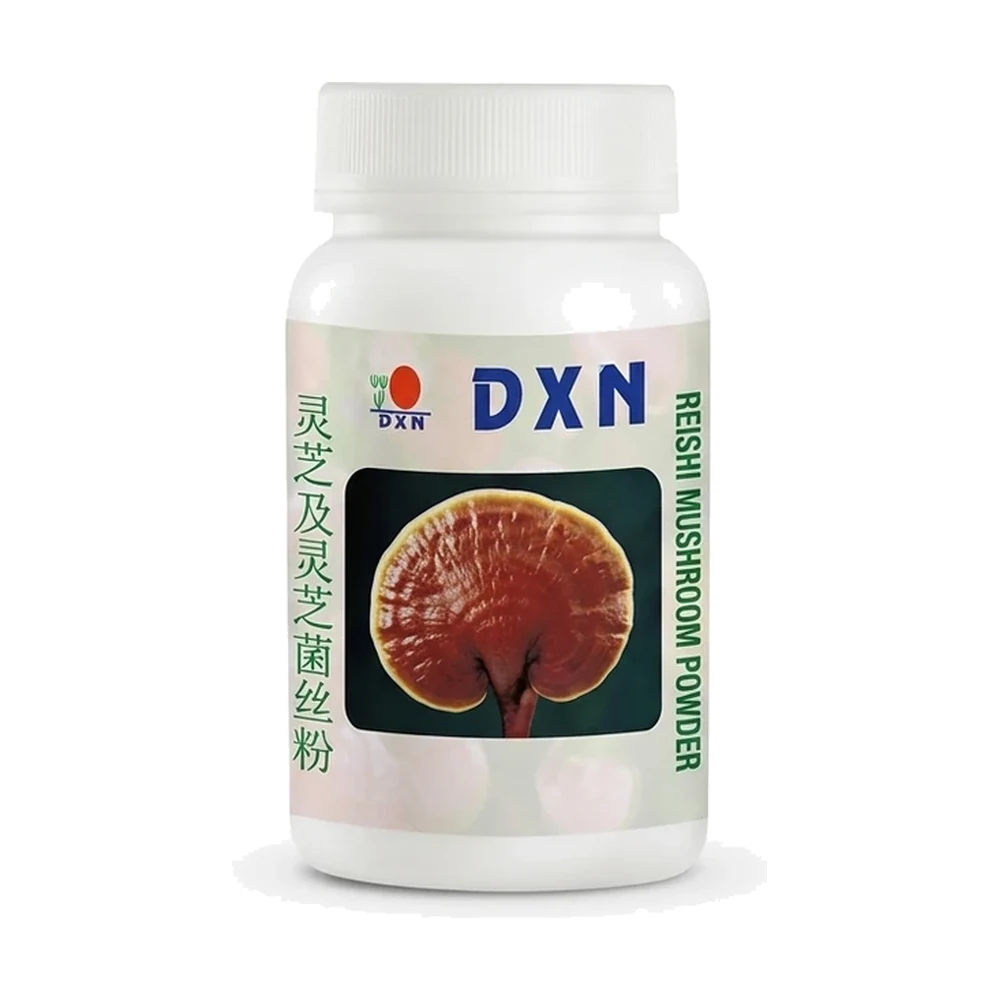
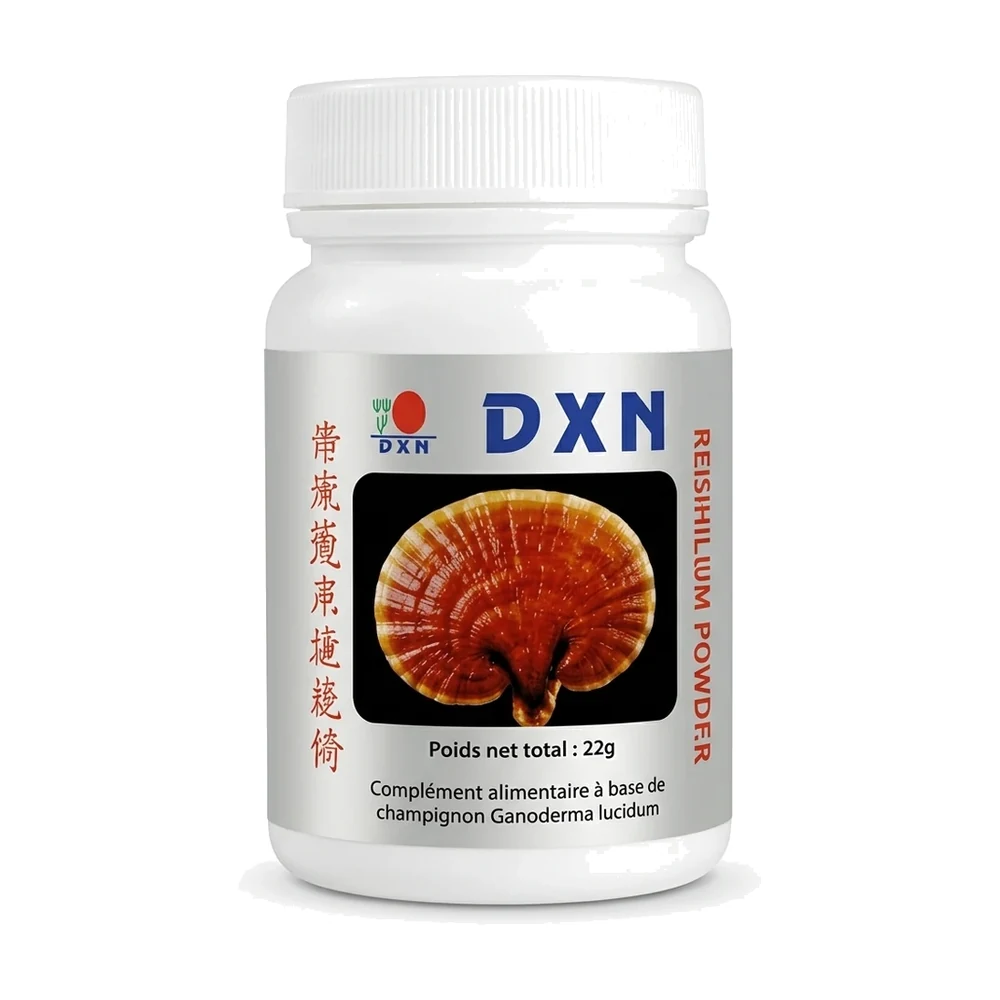
Catalogue : prix, points clés, Spirulina en deux formats, Reishilium
- prix reçus du gérant : Omega 3 39,90 €, Reishilium Powder 87,50 €,
  Lion's Mane Premix Coffee 29,20 €, Cordyceps Coffee 35,40 €, Lingzhi
  Coffee 3 in 1 32,90 €
- Spirulina : deux fiches, 120 comprimés à 28,70 € et 500 à 91,90 €
- « Reishi Mushroom Powder » devient « Reishilium Powder », le nom porté par
  le pot vendu ; contenance laissée vide en attendant confirmation
- Cordyceps Coffee : la version vendue est la « 1 in 1 »
- méta _fati_points et colonne « points » : trois faits par produit sur les
  28 fiches, soumis au même garde-fou que les autres textes
- MycoVeggie : sept champignons, pas « une dizaine »
- packshots du Reishilium et de la Spirulina 120

Les bénéfices santé des affiches ne sont pas repris : interdits pour une
boutique dans l'UE, et contraires à l'engagement affiché sur l'accueil.

diff --git a/tools/rediger-catalogue.py b/tools/rediger-catalogue.py
@@ -14,20 +14,20 @@ dict(slug="lingzhi-coffee", nom="DXN Lingzhi Black Coffee", categorie=AB, prix="
  description="Le Lingzhi Black Coffee est un café soluble d'arabica brésilien auquel DXN ajoute un extrait de Ganoderma lucidum, le champignon reishi. Il se boit noir : aucun sucre ni crémier dans le sachet, un goût de café franc.\n\nC'est la référence la plus simple de la gamme café pour qui veut garder son geste du matin sans rien changer : un sachet, de l'eau chaude, c'est prêt. Il se conserve à température ambiante, à l'abri de l'humidité.",
  composition="Café instantané (arabica du Brésil), extrait de Ganoderma lucidum.",
  usage="Verser le contenu d'un sachet dans une tasse.\nAjouter 150 à 180 ml d'eau chaude et remuer."),
-dict(slug="lingzhi-coffee-3-en-1", nom="DXN Lingzhi Coffee 3 in 1", categorie=AB, prix="", image="lingzhi-coffee-3-en-1.webp", format="20 sachets × 21 g",
+dict(slug="lingzhi-coffee-3-en-1", nom="DXN Lingzhi Coffee 3 in 1", categorie=AB, prix="32.90",image="lingzhi-coffee-3-en-1.webp", format="20 sachets × 21 g",
  accroche="Café, crémier et sucre réunis dans un sachet, avec l'extrait de Ganoderma de la gamme Lingzhi.",
  description="Version douce du café Lingzhi : le sachet contient déjà le crémier et le sucre, pour un café au lait prêt en trente secondes. L'extrait de Ganoderma lucidum est le même que dans le Black Coffee ; seule la rondeur change.\n\nSans colorant, arôme ni conservateur artificiel selon la fiche DXN. Le crémier peut contenir un dérivé du lait : vérifiez la liste d'ingrédients de l'emballage si vous y êtes sensible.",
  composition="Café soluble, crémier, sucre, extrait de Ganoderma lucidum. Détail complet sur l'emballage.",
  usage="Vider un sachet dans une tasse.\nAjouter de l'eau chaude et remuer."),
-dict(slug="lions-mane-coffee", nom="DXN Lion's Mane Coffee", categorie=AB, prix="", image="lions-mane-coffee.webp", format="20 sachets × 21 g",
+dict(slug="lions-mane-coffee", nom="DXN Lion's Mane Premix Coffee", categorie=AB, prix="29.20",image="lions-mane-coffee.webp", format="20 sachets × 21 g",
  accroche="Un café instantané au lait, préparé avec de la poudre de champignon Hericium erinaceus, la crinière de lion.",
- description="Le Lion's Mane Coffee associe café instantané, crémier et sucre à de la poudre de champignon Hericium erinaceus, plus connu sous le nom de crinière de lion. Le résultat est un café doux et rond, qui se prépare chaud ou froid.\n\nIl contient du lait (caséinate de sodium dans le crémier) : il ne convient pas aux personnes allergiques aux protéines de lait.",
+ description="Le Lion's Mane Coffee — « Premix Coffee with Lion's Mane Mushroom » sur sa boîte — associe café instantané, crémier et sucre à de la poudre de champignon Hericium erinaceus, plus connu sous le nom de crinière de lion. Le résultat est un café doux et rond, qui se prépare chaud ou froid.\n\nIl contient du lait (caséinate de sodium dans le crémier) : il ne convient pas aux personnes allergiques aux protéines de lait.",
  composition="Crémier (sirop de glucose, huile de palme, caséinate de sodium — lait, stabilisants, émulsifiants, sel), sucre, café instantané, poudre de champignon Lion's Mane (Hericium erinaceus).\nAllergène : lait.",
  usage="Verser un sachet (21 g) dans une tasse.\nAjouter 150 à 180 ml d'eau chaude, ou d'eau froide pour une version glacée. Remuer."),
-dict(slug="cordyceps-coffee", nom="DXN Cordyceps Coffee", categorie=AB, prix="", image="cordyceps-coffee.webp", format="",
+dict(slug="cordyceps-coffee", nom="DXN Cordyceps Coffee", categorie=AB, prix="35.40",image="cordyceps-coffee.webp", format="",
  accroche="Un café premium instantané associé à l'extrait de Cordyceps sinensis.",
- description="Le Cordyceps Coffee est un café soluble auquel DXN ajoute un extrait de Cordyceps sinensis, un champignon utilisé de longue date en Asie. Il se prépare en quelques secondes, chaud ou froid.\n\nIl existe en version noire (« 1 in 1 ») et en version avec crémier et sucre de canne (« 3 in 1 ») : la version expédiée est confirmée avec Fati avant la commande.",
- composition="Café instantané, extrait de Cordyceps sinensis. Selon la version : crémier et sucre de canne.",
+ description="Le Cordyceps Coffee est un café soluble auquel DXN ajoute un extrait de Cordyceps sinensis, un champignon utilisé de longue date en Asie. Il se prépare en quelques secondes, chaud ou froid.\n\nC'est la version « 1 in 1 » : de la poudre de café instantané de qualité et l'extrait de champignon, sans crémier dans le sachet. À chacun d'ajouter, ou non, son lait et son sucre.",
+ composition="Café instantané, extrait de Cordyceps sinensis. Liste complète sur l'emballage.",
  usage="Vider un sachet dans une tasse.\nAjouter de l'eau chaude ou froide, bien remuer."),
 dict(slug="morinzhi", nom="DXN Morinzhi", categorie=AB, prix="30", image="morinzhi.webp", format="285 ml",
  accroche="Un jus de noni (Morinda citrifolia) adouci à la roselle, à diluer dans un verre d'eau.",
@@ -50,9 +50,9 @@ dict(slug="rg-90", nom="DXN Reishi Gano (RG) 90", categorie=CO, prix="61", image
  description="Le Reishi Gano, ou RG, contient uniquement le corps fructifère du Ganoderma lucidum — le champignon reishi — récolté à maturité, après 90 jours de culture en ferme certifiée biologique selon DXN. Rien d'autre dans la gélule.\n\nLe flacon de 90 gélules est le format intermédiaire de la gamme, qui existe aussi en 30 et en 360. Les conseils d'utilisation figurent sur l'emballage ; en cas de traitement médical ou de grossesse, demandez l'avis d'un professionnel de santé avant d'en prendre.",
  composition="100 % Ganoderma lucidum (corps fructifère), 270 mg par gélule.",
  usage=FLACON),
-dict(slug="reishi-powder", nom="DXN Reishi Mushroom Powder", categorie=CO, prix="40.50", image="reishi-powder.webp", format="",
+dict(slug="reishi-powder", nom="DXN Reishilium Powder", categorie=CO, prix="87.50",image="reishi-powder.webp", format="",
  accroche="Corps fructifère et mycélium de Ganoderma lucidum réduits en poudre, à diluer.",
- description="Cette poudre réunit les deux parties du reishi que DXN propose séparément en gélules : le corps fructifère (RG) et le mycélium (GL). Elle se mélange dans de l'eau, une boisson ou une préparation.\n\nLe goût est légèrement amer, caractéristique du champignon. La dose se mesure à la cuillère fournie ; le détail figure sur l'emballage.",
+ description="Le Reishilium Powder — vendu en Europe sous le nom de Reishi Mushroom Powder — réunit les deux parties du reishi que DXN propose séparément en gélules : le corps fructifère (RG) et le mycélium (GL). Elle se mélange dans de l'eau, une boisson ou une préparation.\n\nLe goût est légèrement amer, caractéristique du champignon. La dose se mesure à la cuillère fournie ; le détail figure sur l'emballage.",
  composition="Corps fructifère et mycélium de Ganoderma lucidum, 100 %.",
  usage="Mélanger une cuillère-mesure rase dans un verre d'eau ou une boisson.\nPeut aussi s'incorporer à une préparation."),
 dict(slug="cordyceps", nom="DXN Cordyceps", categorie=CO, prix="75", image="cordyceps.webp", format="60 gélules × 450 mg",
@@ -72,15 +72,20 @@ dict(slug="lions-mane", nom="DXN Lion's Mane", categorie=CO, prix="48", image="l
  usage=FLACON),
 dict(slug="mycoveggie", nom="DXN MycoVeggie", categorie=CO, prix="118", image="mycoveggie.webp", format="400 g",
  accroche="Un mélange de psyllium, légumes, plantes, épices et champignons en poudre.",
- description="Le MycoVeggie est une poudre composée de téguments de psyllium, de légumes, de feuilles et d'épices, et d'une dizaine de champignons dont le shiitake, le pleurote et la crinière de lion. Le psyllium en est le premier ingrédient.\n\nLe pot de 400 g se dose à la cuillère-mesure dans un verre d'eau tiède ou froide, de préférence au shaker : la poudre épaissit vite, mieux vaut boire aussitôt.",
+ description="Le MycoVeggie est une poudre composée de téguments de psyllium, de légumes, de feuilles et d'épices, et de sept champignons dont le shiitake, le pleurote et la crinière de lion. Le psyllium en est le premier ingrédient.\n\nLe pot de 400 g se dose à la cuillère-mesure dans un verre d'eau tiède ou froide, de préférence au shaker : la poudre épaissit vite, mieux vaut boire aussitôt.",
  composition="Téguments de psyllium, céleri, feuille de mûrier, feuille de noni, feuille de ginkgo, gingembre, citronnelle, shiitake, Lyophyllum, tricholome de la Saint-Georges, crinière de lion, pleurote de l'orme, pleurote gris, Schizophyllum commune, maïs doux, citron vert, orange, spiruline, thé vert, écorce de mandarine, cannelle, anis étoilé, clou de girofle.",
  usage="Mélanger une cuillère-mesure (5 g) dans un verre d'eau tiède ou froide, au shaker de préférence.\nBoire aussitôt."),
-dict(slug="spirulina", nom="DXN Spirulina", categorie=CO, prix="95", image="spirulina.webp", format="500 comprimés × 250 mg",
- accroche="De la spiruline (Spirulina platensis) cultivée en bassin, en comprimés de 250 mg.",
- description="La spiruline DXN est une micro-algue, Spirulina platensis, cultivée en bassin sans pesticide ni herbicide selon DXN, puis séchée et compressée. Chaque comprimé en contient 250 mg, avec un minimum d'excipients.\n\nLe flacon de 500 comprimés est le grand format ; il existe aussi en 120 comprimés et en poudre. Les comprimés s'avalent avec de l'eau ou se croquent.",
+dict(slug="spirulina-120", nom="DXN Spirulina — 120 comprimés", categorie=CO, prix="28.70", image="spirulina-120.webp", format="120 comprimés × 250 mg",
+ accroche="De la spiruline (Spirulina platensis) cultivée en bassin, en comprimés de 250 mg — le petit flacon.",
+ description="La spiruline DXN est une micro-algue, Spirulina platensis, cultivée en bassin sans pesticide ni herbicide selon DXN, puis séchée et compressée. Chaque comprimé en contient 250 mg, avec un minimum d'excipients.\n\nCe flacon de 120 comprimés est le format de découverte ; la même spiruline existe en flacon de 500. Les comprimés s'avalent avec de l'eau ou se croquent.",
  composition="Spirulina platensis, excipients. Détail sur l'étiquette.",
  usage="Suivre les conseils d'utilisation imprimés sur le flacon.\nAvaler avec un verre d'eau ou croquer."),
-dict(slug="omega-3", nom="DXN Omega 3", categorie=CO, prix="", image="omega-3.webp", format="90 capsules molles",
+dict(slug="spirulina", nom="DXN Spirulina — 500 comprimés", categorie=CO, prix="91.90",image="spirulina.webp", format="500 comprimés × 250 mg",
+ accroche="De la spiruline (Spirulina platensis) cultivée en bassin, en comprimés de 250 mg.",
+ description="La spiruline DXN est une micro-algue, Spirulina platensis, cultivée en bassin sans pesticide ni herbicide selon DXN, puis séchée et compressée. Chaque comprimé en contient 250 mg, avec un minimum d'excipients.\n\nCe flacon de 500 comprimés est le grand format ; la même spiruline existe en flacon de 120. Les comprimés s'avalent avec de l'eau ou se croquent.",
+ composition="Spirulina platensis, excipients. Détail sur l'étiquette.",
+ usage="Suivre les conseils d'utilisation imprimés sur le flacon.\nAvaler avec un verre d'eau ou croquer."),
+dict(slug="omega-3", nom="DXN Omega 3", categorie=CO, prix="39.90",image="omega-3.webp", format="90 capsules molles",
  accroche="De l'huile de poisson purifiée, source d'EPA et de DHA, en capsules molles.",
  description="L'Omega 3 de DXN est une huile de poisson purifiée, naturellement riche en deux acides gras de la famille des oméga-3 : l'EPA et le DHA. Elle est conditionnée en capsules molles, faciles à avaler.\n\nLe flacon contient 90 capsules. Elles se prennent après un repas, avec un verre d'eau, et se conservent dans un endroit frais et sec. Les teneurs exactes en EPA et en DHA figurent sur l'étiquette ; en cas de traitement anticoagulant, de grossesse ou d'allergie au poisson, demandez l'avis d'un professionnel de santé avant d'en prendre.",
  composition="Huile de poisson purifiée (EPA, DHA), enveloppe de la capsule. Teneurs et liste complète sur l'étiquette.\nAllergène : poisson.",
@@ -148,7 +153,44 @@ dict(slug="gano-massage-oil", nom="DXN Gano Massage Oil", categorie=SP, prix="",
  usage="Bien agiter avant usage.\nAppliquer la quantité souhaitée et masser doucement.\nUsage externe. En cas de contact avec les yeux, rincer abondamment."),
 ]
 
-COLS = ["slug","nom","categorie","prix","image","format","accroche","description","composition","usage"]
+
+# Points clés affichés en liste cochée sous l'accroche. Même règle que pour le
+# reste : ce que le produit est, contient, ou la façon dont il s'utilise.
+POINTS = {
+ "lingzhi-coffee":        ["Café noir, sans sucre ni crémier dans le sachet", "Extrait de Ganoderma lucidum, le reishi", "Prêt en quelques secondes, un sachet par tasse"],
+ "lingzhi-coffee-3-en-1": ["Café, crémier et sucre déjà dosés", "Extrait de Ganoderma lucidum, le reishi", "20 sachets individuels, faciles à emporter"],
+ "lions-mane-coffee":     ["Poudre de champignon Lion's Mane (Hericium erinaceus)", "Café doux, avec crémier et sucre", "Se prépare chaud ou glacé — 20 sachets"],
+ "cordyceps-coffee":      ["Café premium et extrait de Cordyceps sinensis", "Version « 1 in 1 », sans crémier dans le sachet", "Se prépare chaud ou froid"],
+ "morinzhi":              ["Jus de noni, Morinda citrifolia", "Adouci à la roselle", "À diluer : deux bouchons par verre"],
+ "roselle":               ["Concentré de calices d'hibiscus", "Sans conservateur ni colorant artificiel", "Se boit chaud, froid, ou s'utilise en cuisine"],
+ "virgin-coconut-oil":    ["Huile de coco vierge, pressée à froid", "Associée à l'extrait de Ganoderma", "En cuisine comme en soin"],
+ "rg-90":                 ["100 % Ganoderma lucidum, corps fructifère", "Récolté à 90 jours, ferme certifiée bio selon DXN", "90 gélules de 270 mg"],
+ "reishi-powder":         ["100 % Ganoderma lucidum : corps fructifère et mycélium", "Poudre fine, à diluer dans une boisson", "Dosage à la cuillère-mesure"],
+ "cordyceps":             ["Poudre de Cordyceps sinensis, sans autre ingrédient", "Gélules végétales de 450 mg", "60 gélules par flacon"],
+ "poria-s":               ["100 % mycélium de Poria cocos", "Produit en usine certifiée GMP selon DXN", "Poudre à dissoudre dans l'eau tiède"],
+ "lions-mane":            ["Hericium erinaceus, corps fructifère", "120 comprimés de 300 mg", "Produit destiné aux adultes"],
+ "mycoveggie":            ["23 ingrédients végétaux, dont sept champignons", "Le psyllium en premier ingrédient", "Pot de 400 g, à doser à la cuillère"],
+ "spirulina-120":         ["Spirulina platensis cultivée en bassin", "Sans pesticide ni herbicide selon DXN", "120 comprimés de 250 mg, à avaler ou à croquer"],
+ "spirulina":             ["Spirulina platensis cultivée en bassin", "Sans pesticide ni herbicide selon DXN", "500 comprimés de 250 mg, à avaler ou à croquer"],
+ "omega-3":               ["Huile de poisson purifiée", "Source d'EPA et de DHA, deux oméga-3", "90 capsules molles, à prendre après un repas"],
+ "natural-shield-deo":    ["Sans sels d'aluminium, sans alcool", "Aloe vera bio, concombre et sauge", "Roll-on de 50 ml, tous types de peau"],
+ "kallow-shower-gel":     ["Aloe vera, huile d'olive, acide hyaluronique", "Mousse fine, parfum floral", "Flacon-pompe de 250 ml"],
+ "kallow-sunscreen-spf50":["Haute protection SPF 50+, UVA et UVB", "Acide hyaluronique et vitamine E", "Texture légère, tube de 50 ml"],
+ "kallow-cosmetics":      ["Les soins visage Divine Touch réunis", "Coffret composé par Fati", "Chaque soin existe aussi à l'unité"],
+ "divine-eye-cream":      ["Caféine, peptides, acide hyaluronique", "Vitamines C, E et A", "Tube de 15 ml, matin et soir"],
+ "divine-dry-oil":        ["Huiles de tournesol, d'argan et d'olive", "Visage, corps et cheveux", "Pénètre vite, sans film gras"],
+ "divine-night-oil":      ["Six huiles végétales", "Vitamines A, C et E", "Quelques gouttes le soir, sans rinçage"],
+ "divine-face-cream":     ["Peptides et cellules de pomme verte", "Huiles d'avocat, d'abricot et d'argan", "Pot de 50 ml, texture riche"],
+ "ganozhi-soap":          ["Extrait de Ganoderma et huile de palme", "Sans colorant artificiel", "Corps, visage et rasage"],
+ "ganozhi-shampoo":       ["Extrait de Ganoderma et vitamine B5", "pH équilibré", "Tous types de cheveux, usage fréquent"],
+ "ganozhi-body-foam":     ["Extrait de Ganoderma et vitamine E", "Formule douce, tous types de peau", "Flacon de 250 ml"],
+ "gano-massage-oil":      ["Huile de palme et extrait de Ganoderma", "Pour le corps et les cheveux", "Usage externe, flacon de 75 ml"],
+}
+for p in P:
+    assert p["slug"] in POINTS, p["slug"]
+    p["points"] = "\n".join(POINTS[p["slug"]])
+
+COLS = ["slug","nom","categorie","prix","image","format","accroche","description","composition","usage","points"]
 out = pathlib.Path(__file__).resolve().parent / "catalogue.csv"
 with out.open("w", encoding="utf-8", newline="") as f:
     w = csv.DictWriter(f, fieldnames=COLS, quoting=csv.QUOTE_ALL, lineterminator="\n")
@@ -159,7 +201,7 @@ with out.open("w", encoding="utf-8", newline="") as f:
 # Garde-fou : aucun mot d'allégation santé ne doit traîner dans les textes.
 interdits = [r"\bguérit",r"\bsoigne",r"\bprévient",r"\btraite\b","immunit","détox","detox","brûle","maigrir","perte de poids","diabète","cholestérol","tension","anti-âge","antioxydant","anti-inflammatoire","renforce","stimule","améliore","booste","sans danger","sans effet secondaire"]
 for p in P:
-    texte = " ".join(p[c] for c in ("accroche","description","composition","usage")).lower()
+    texte = " ".join(p[c] for c in ("accroche","description","composition","usage","points")).lower()
     for mot in interdits:
         assert not re.search(mot, texte), (p["slug"], mot)
 print(len(P), "produits →", out)

diff --git a/wp-content/mu-plugins/fatichanelya-core/inc/meta.php b/wp-content/mu-plugins/fatichanelya-core/inc/meta.php
@@ -35,6 +35,15 @@ function fati_meta_schema() {
 				'type'  => 'text',
 				'help'  => __( 'Tel qu\'imprimé sur l\'emballage : « 90 gélules », « 20 sachets × 21 g », « 250 ml ».', 'fatichanelya' ),
 			),
+			// Trois ou quatre faits sur le produit, affichés en liste cochée sous
+			// l'accroche. Des faits vérifiables sur l'emballage — ce qu'il contient,
+			// son format, la façon de l'utiliser — jamais un effet sur la santé :
+			// le site s'engage par écrit à n'en promettre aucun.
+			'_fati_points'    => array(
+				'label' => __( 'Points clés', 'fatichanelya' ),
+				'type'  => 'textarea',
+				'help'  => __( 'Un fait par ligne, trois ou quatre au plus : composition, format, usage. Aucun bénéfice santé (interdit par la réglementation européenne).', 'fatichanelya' ),
+			),
 			'_fati_composition' => array(
 				'label' => __( 'Composition', 'fatichanelya' ),
 				'type'  => 'textarea',

diff --git a/tools/importer-catalogue.py b/tools/importer-catalogue.py
@@ -44,6 +44,7 @@ METAS = {
     "format": "_fati_format",
     "composition": "_fati_composition",
     "usage": "_fati_usage",
+    "points": "_fati_points",
 }
 
 
@@ -133,7 +134,7 @@ def main():
         sys.exit(f"Catalogue introuvable : {CATALOGUE}")
 
     lignes = list(csv.DictReader(open(str(CATALOGUE), encoding="utf-8", newline="")))
-    attendues = {"slug", "nom", "categorie", "prix", "image", "format", "accroche", "description", "composition", "usage"}
+    attendues = {"slug", "nom", "categorie", "prix", "image", "format", "accroche", "description", "composition", "usage", "points"}
     manquantes = attendues - set(lignes[0].keys())
     if manquantes:
         sys.exit(f"Colonnes manquantes dans le CSV : {', '.join(sorted(manquantes))}")
